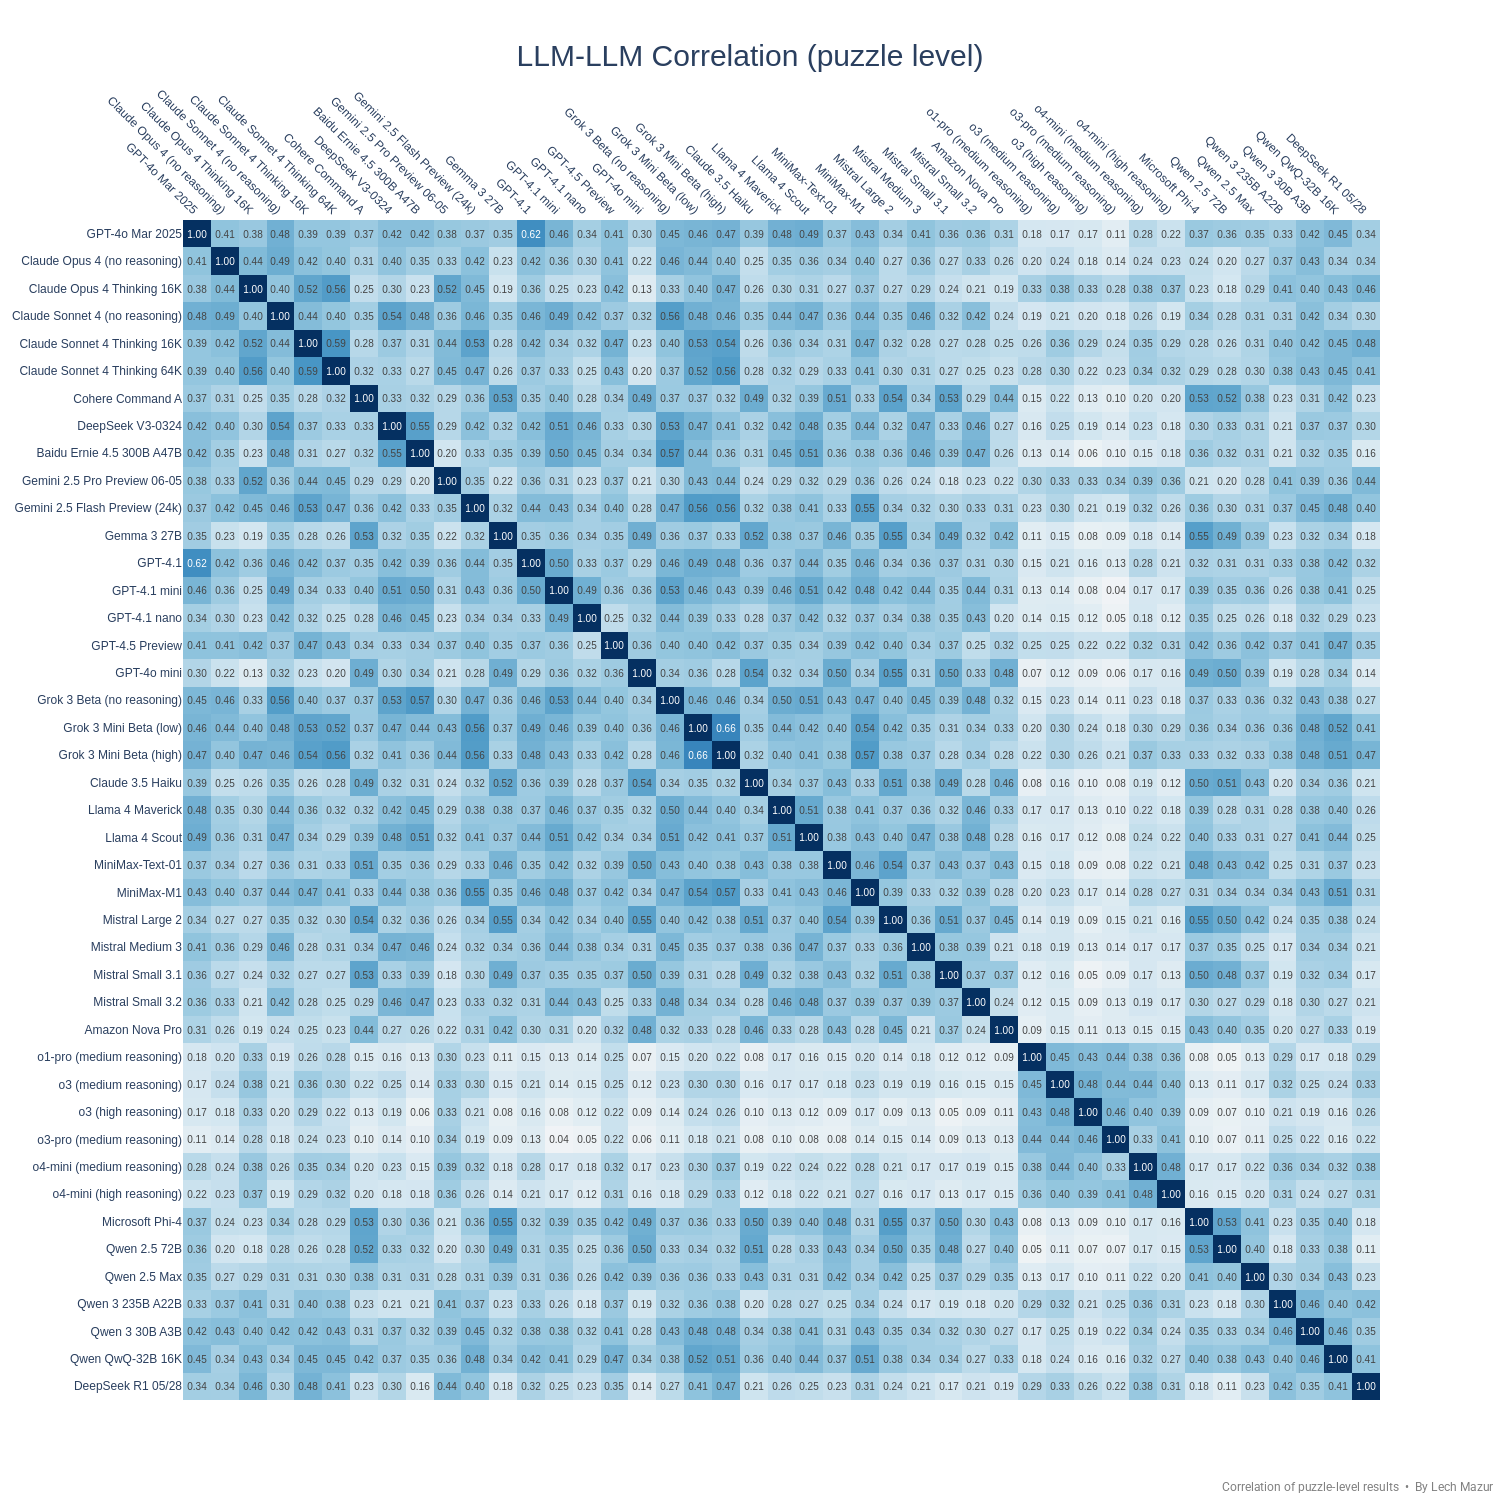
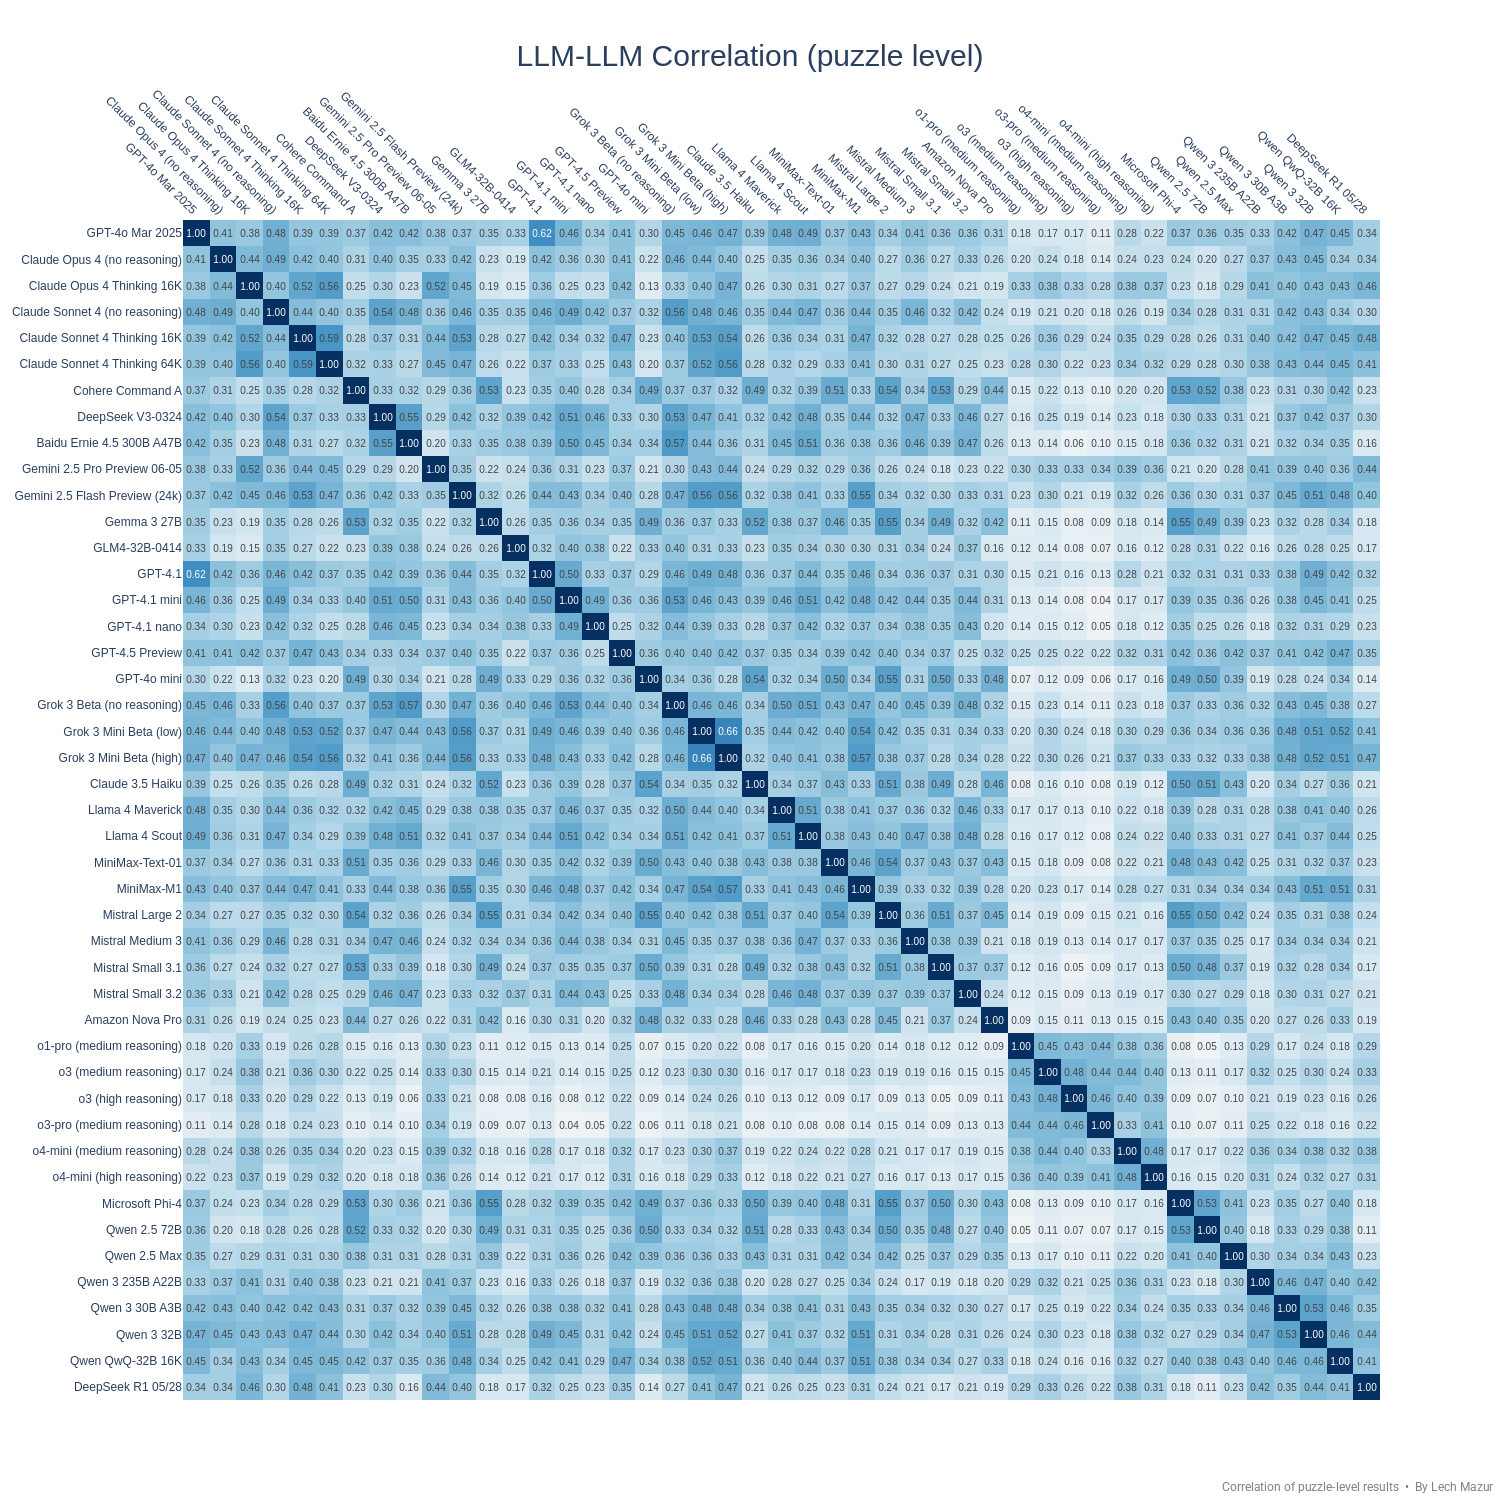
Qwen 3 32B, GLM4-32B-0414

Changed region(s): [[0.0, 0.0613, 0.92, 0.9507]]

diff --git a/README.md b/README.md
@@ -31,56 +31,58 @@ As of Feb 4, 2025, there is a new version of the benchmark. The standard NYT Con
 |17|Claude Sonnet 4 Thinking 64K|39.6|651|
 |18|DeepSeek R1|38.6|651|
 |19|Qwen 3 30B A3B|38.0|651|
-|20|Claude Opus 4 (no reasoning)|34.8|651|
-|21|GPT-4.5 Preview|34.2|651|
-|22|Claude 3.7 Sonnet Thinking 16K|33.6|651|
-|23|Qwen QwQ-32B 16K|31.4|651|
-|24|Grok 3 Mini Beta (high)|30.9|651|
-|25|o1-mini|26.9|651|
-|26|Grok 3 Mini Beta (low)|26.0|651|
-|27|Gemini 2.5 Flash Preview (24k)|25.8|651|
-|28|Claude Sonnet 4 (no reasoning)|25.7|651|
-|29|Quasar Alpha|25.4|651|
-|30|GPT-4o Mar 2025|25.2|651|
-|31|GPT-4.1|23.6|651|
-|32|Gemini 2.0 Flash Think Exp 01-21|23.1|649|
-|33|GPT-4o Feb 2025|22.7|651|
-|34|Gemini 2.0 Pro Exp 02-05|21.7|651|
-|35|MiniMax-M1|21.4|651|
-|36|Grok 3 Beta (no reasoning)|20.3|651|
-|37|Grok 2 12-12|19.2|651|
-|38|Gemini 1.5 Pro (Sept)|19.2|601|
-|39|Claude 3.7 Sonnet|19.2|651|
-|40|Claude 3 Opus|19.2|651|
-|41|Llama 4 Maverick|19.1|651|
-|42|Gemini 2.0 Flash|18.8|651|
-|43|GPT-4o 2024-11-20|18.7|601|
-|44|Qwen 2.5 Max|18.0|651|
-|45|Llama 4 Scout|17.9|651|
-|46|GPT-4o 2024-08-06|17.8|601|
-|47|Claude 3.5 Sonnet 2024-10-22|17.7|651|
-|48|DeepSeek V3-0324|17.4|651|
-|49|Llama 3.1 405B|16.2|651|
-|50|Baidu Ernie 4.5 300B A47B|15.2|651|
-|51|DeepSeek V3|15.1|651|
-|52|Llama 3.3 70B|15.1|651|
-|53|GPT-4.1 mini|15.1|651|
-|54|MiniMax-Text-01|14.6|651|
-|55|Cohere Command A|13.6|651|
-|56|Mistral Large 2|12.6|651|
-|57|Gemma 2 27B|12.2|651|
-|58|Gemma 3 27B|11.8|651|
-|59|Mistral Small 3.2|11.5|651|
-|60|Mistral Medium 3|11.4|651|
-|61|Mistral Small 3.1|11.4|651|
-|62|Qwen 2.5 72B|11.1|651|
-|63|Claude 3.5 Haiku|10.3|651|
-|64|Microsoft Phi-4|10.2|651|
-|65|Amazon Nova Pro|10.1|651|
-|66|GPT-4o mini|9.9|651|
-|67|Mistral Small 3|8.9|601|
-|68|GPT-4.1 nano|8.6|651|
-|69|Claude 3 Haiku|2.2|601|
+|20|Qwen 3 32B|37.0|651|
+|21|Claude Opus 4 (no reasoning)|34.8|651|
+|22|GPT-4.5 Preview|34.2|651|
+|23|Claude 3.7 Sonnet Thinking 16K|33.6|651|
+|24|Qwen QwQ-32B 16K|31.4|651|
+|25|Grok 3 Mini Beta (high)|30.9|651|
+|26|o1-mini|26.9|651|
+|27|Grok 3 Mini Beta (low)|26.0|651|
+|28|Gemini 2.5 Flash Preview (24k)|25.8|651|
+|29|Claude Sonnet 4 (no reasoning)|25.7|651|
+|30|Quasar Alpha|25.4|651|
+|31|GPT-4o Mar 2025|25.2|651|
+|32|GPT-4.1|23.6|651|
+|33|Gemini 2.0 Flash Think Exp 01-21|23.1|649|
+|34|GPT-4o Feb 2025|22.7|651|
+|35|Gemini 2.0 Pro Exp 02-05|21.7|651|
+|36|MiniMax-M1|21.4|651|
+|37|Grok 3 Beta (no reasoning)|20.3|651|
+|38|Grok 2 12-12|19.2|651|
+|39|Gemini 1.5 Pro (Sept)|19.2|601|
+|40|Claude 3.7 Sonnet|19.2|651|
+|41|Claude 3 Opus|19.2|651|
+|42|Llama 4 Maverick|19.1|651|
+|43|Gemini 2.0 Flash|18.8|651|
+|44|GPT-4o 2024-11-20|18.7|601|
+|45|Qwen 2.5 Max|18.0|651|
+|46|Llama 4 Scout|17.9|651|
+|47|GPT-4o 2024-08-06|17.8|601|
+|48|Claude 3.5 Sonnet 2024-10-22|17.7|651|
+|49|DeepSeek V3-0324|17.4|651|
+|50|Llama 3.1 405B|16.2|651|
+|51|Baidu Ernie 4.5 300B A47B|15.2|651|
+|52|DeepSeek V3|15.1|651|
+|53|Llama 3.3 70B|15.1|651|
+|54|GPT-4.1 mini|15.1|651|
+|55|MiniMax-Text-01|14.6|651|
+|56|Cohere Command A|13.6|651|
+|57|Mistral Large 2|12.6|651|
+|58|Gemma 2 27B|12.2|651|
+|59|Gemma 3 27B|11.8|651|
+|60|Mistral Small 3.2|11.5|651|
+|61|Mistral Medium 3|11.4|651|
+|62|Mistral Small 3.1|11.4|651|
+|63|Qwen 2.5 72B|11.1|651|
+|64|Claude 3.5 Haiku|10.3|651|
+|65|Microsoft Phi-4|10.2|651|
+|66|Amazon Nova Pro|10.1|651|
+|67|GPT-4o mini|9.9|651|
+|68|Mistral Small 3|8.9|601|
+|69|GPT-4.1 nano|8.6|651|
+|70|GLM4-32B-0414|7.8|651|
+|71|Claude 3 Haiku|2.2|601|
 
 
 
@@ -185,6 +187,7 @@ This benchmark evaluates large language models (LLMs) using 436 NYT Connections 
 ---
 
 ## Updates
+- July 3, 2025: Qwen 3 32B, GLM4-32B-0414 added.
 - July 2, 2025: Baidu Ernie 4.5 300B A47B, MiniMax-M1, Mistral Small 3.2 added.
 - June 10, 2025: o3-pro added.
 - June 5, 2025: Gemini 2.5 Pro Preview 06-05 added. 
